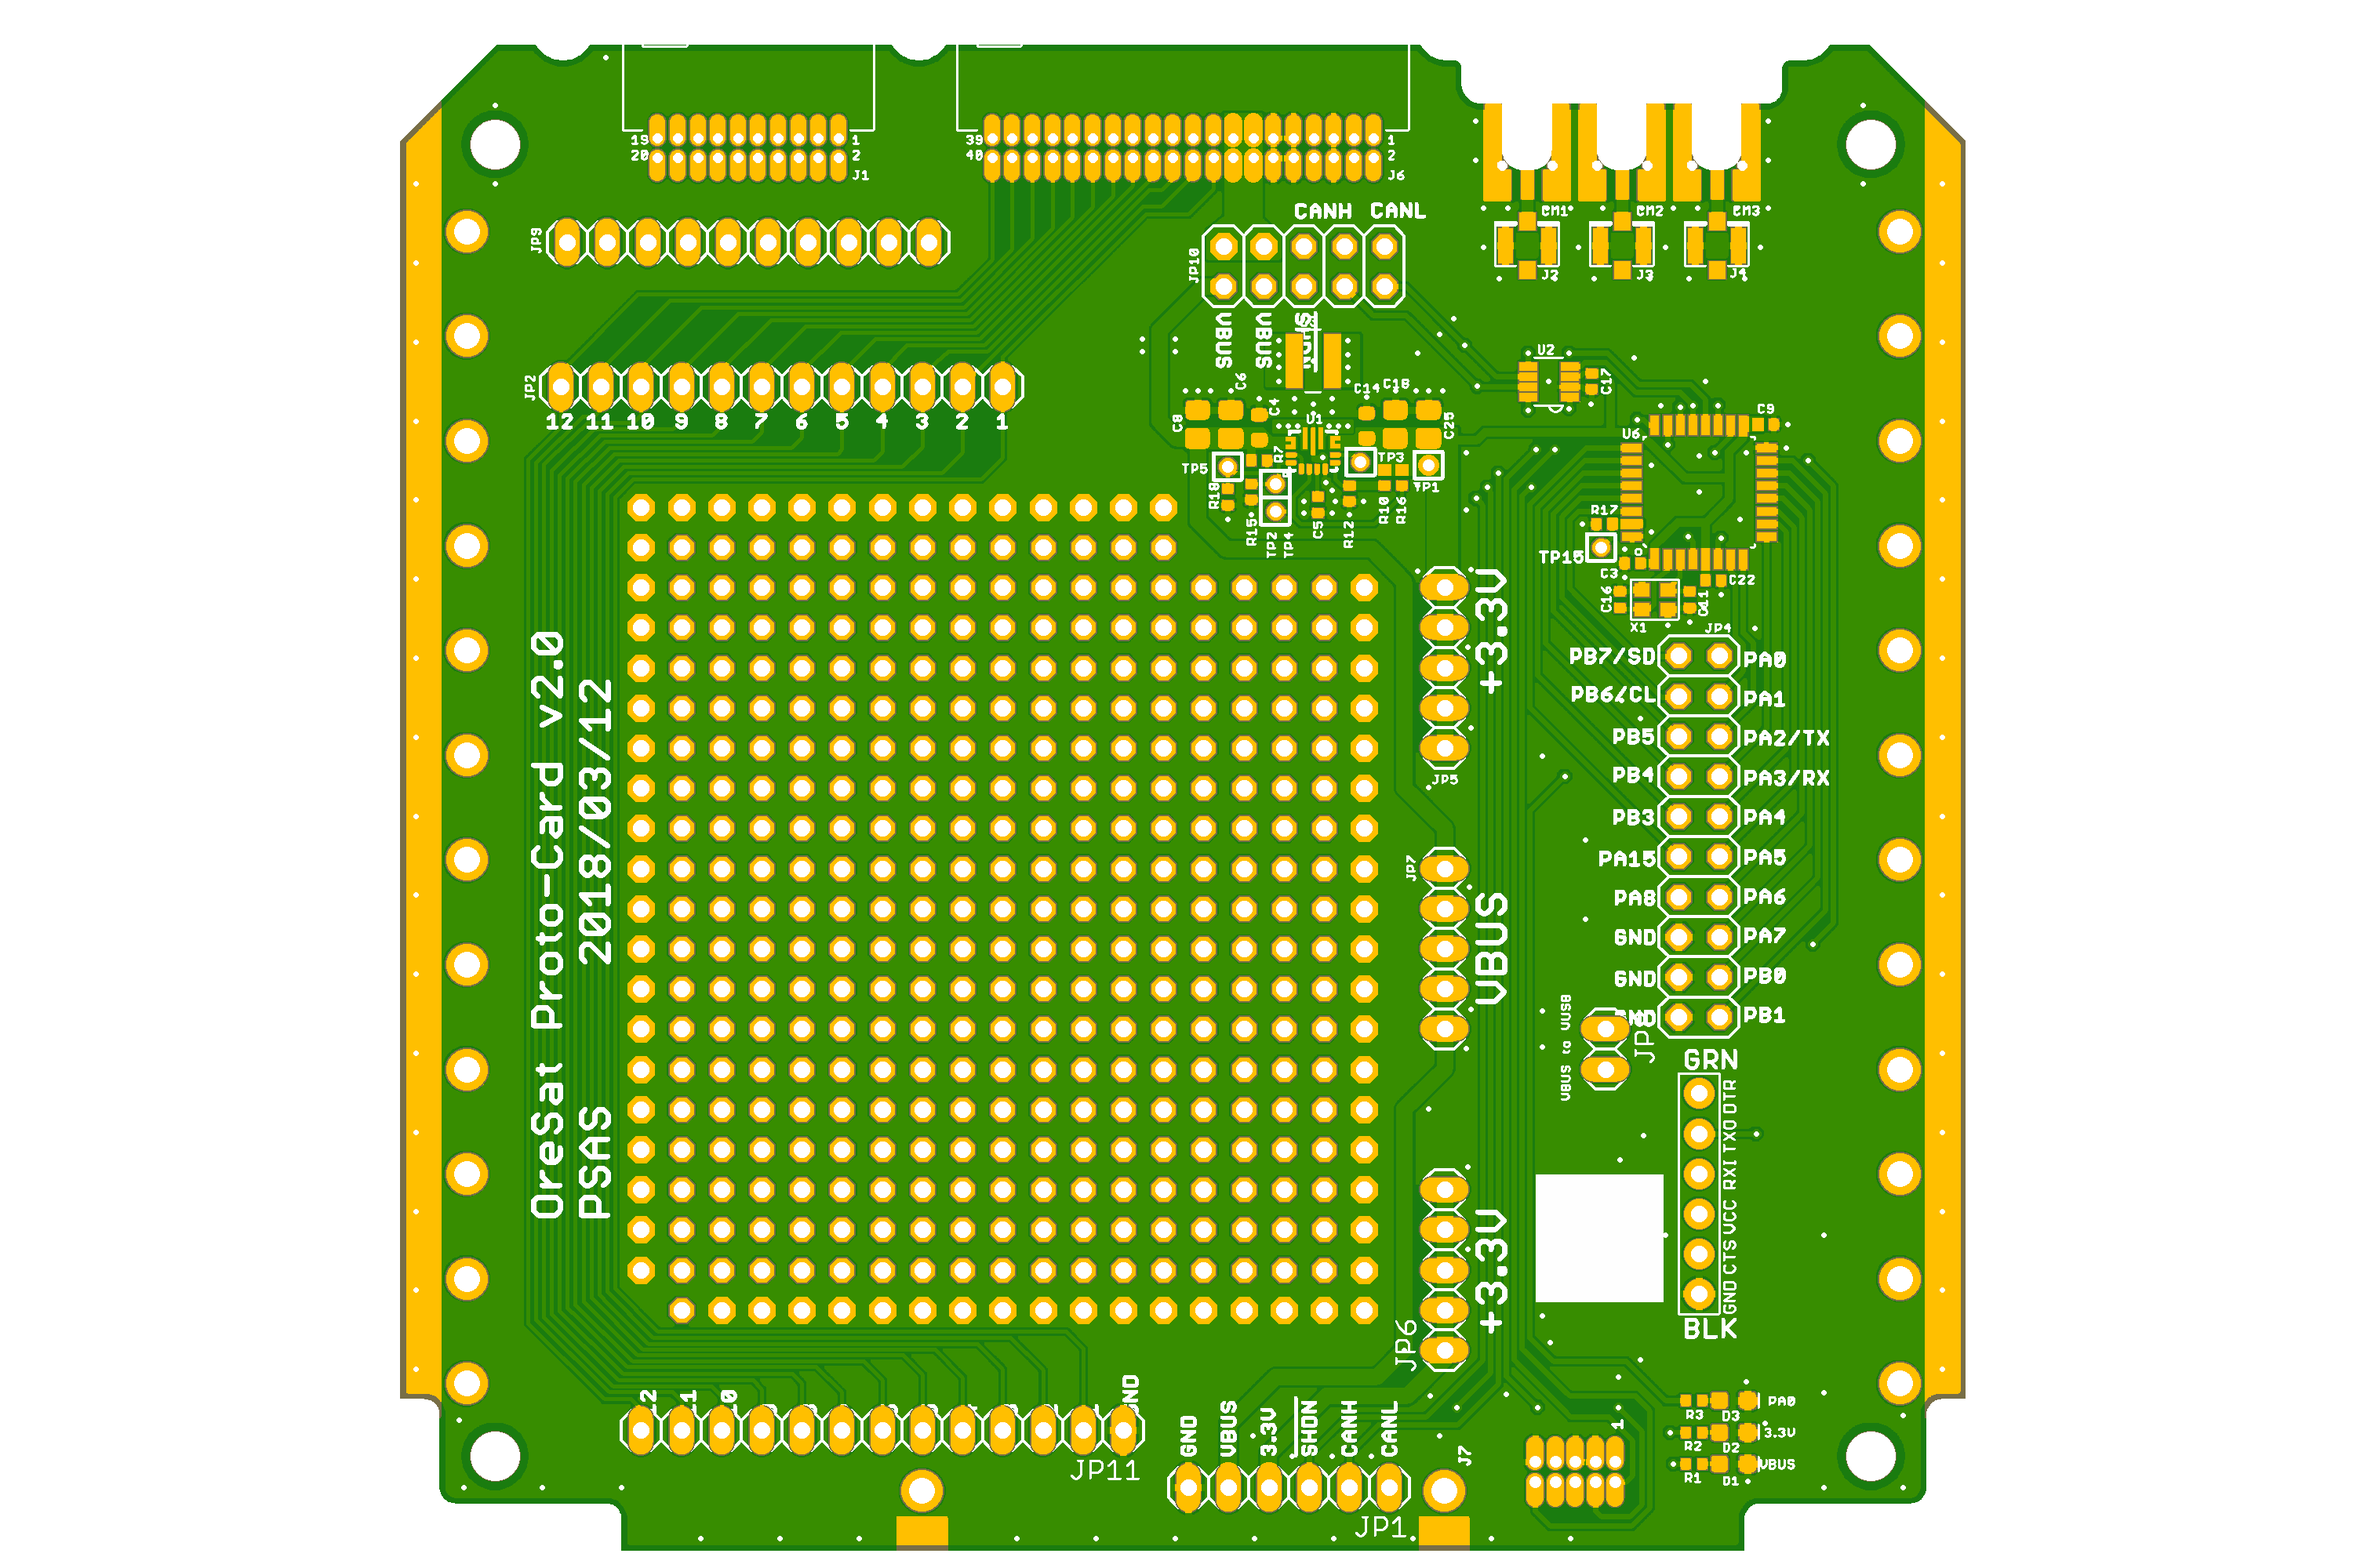
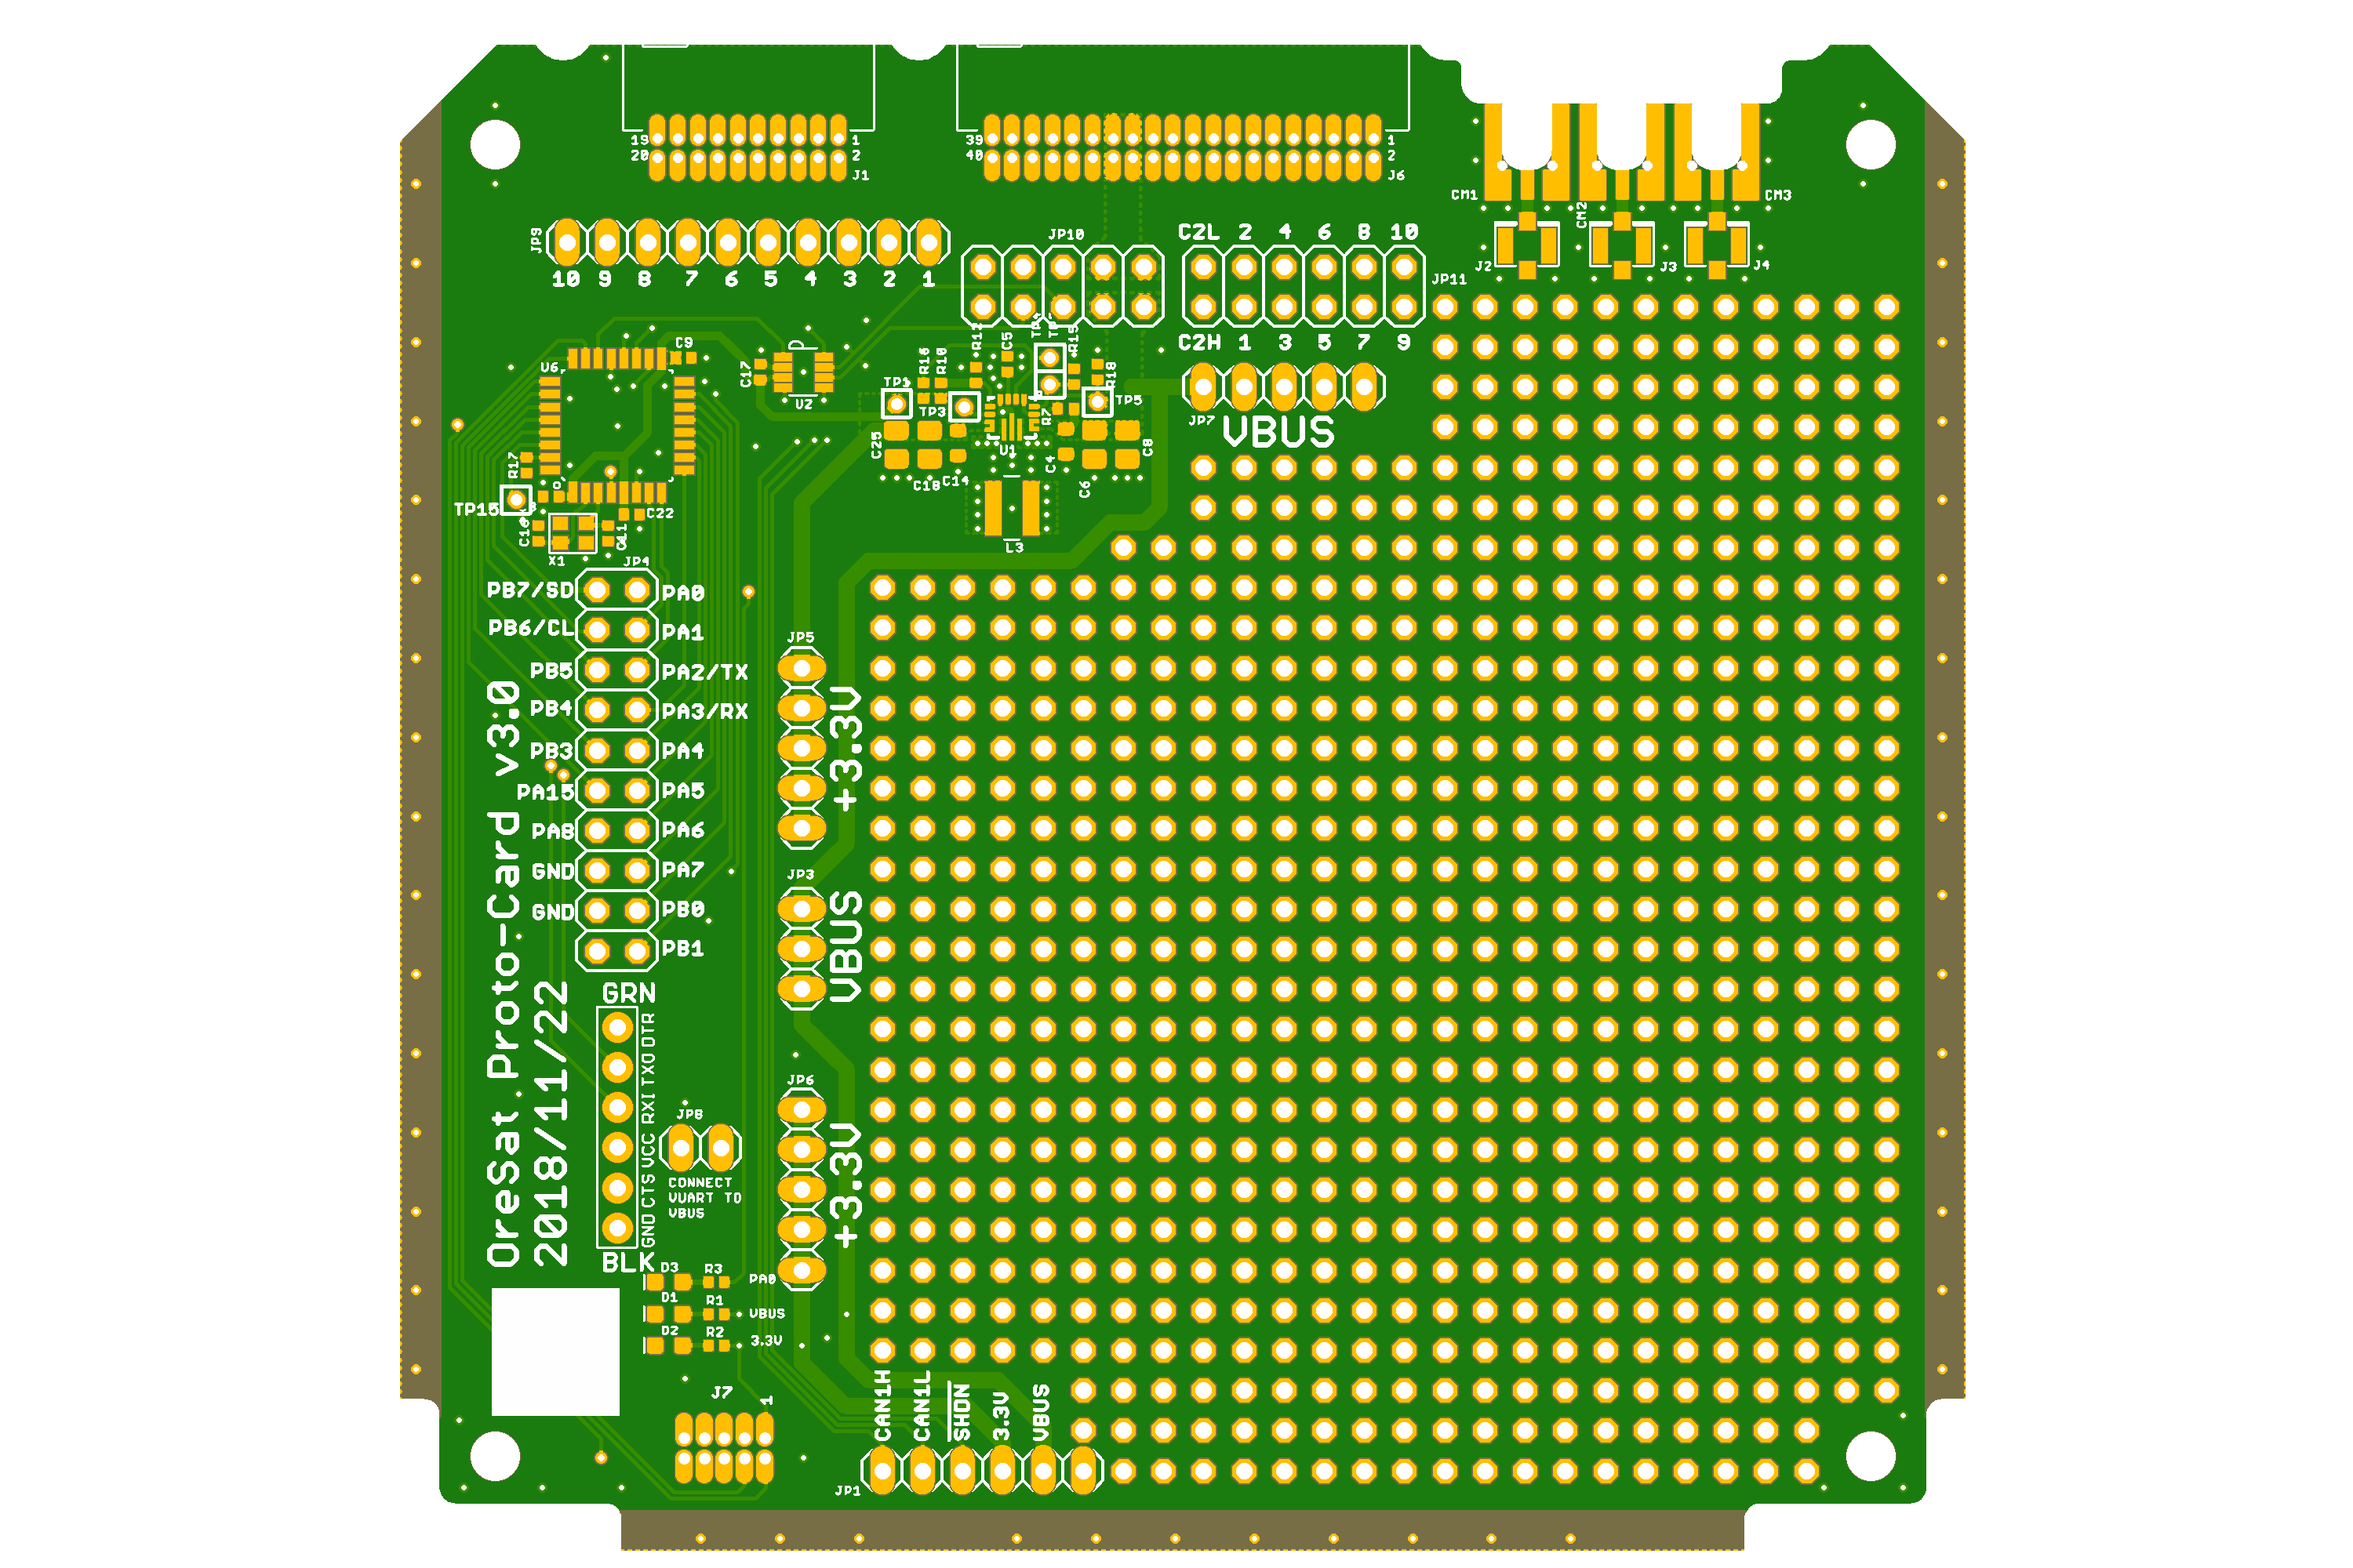
Update documentation to the latest.

diff --git a/README.md b/README.md
@@ -7,7 +7,7 @@ easy way to hack in functionality. NOT MEANT FOR FLIGHT.
 
 - Populates the two 1.27 mm connectors from the backplane.
 - Populates all three SMPM RF connectors from the backplane.
-- Standard TPS63070-bsaed buck/boost SPS (Vin = 2.5 to 7 V)
+- Standard TPS63070-bsaed buck/boost SPS (Vin = 2.5 to 7 V, Vout = 3.3V)
 - Has our standard/favorite STM32F042K6 microcontroller.
    - With SWD, UART (FTDI), and CAN (to the backplane).
 - Has lots of breakouts, but DO NOT POPULATE THE 0.1 IN CONNECTORS, THEY'RE TOO TALL!!!
@@ -45,4 +45,12 @@ Copyright Portland State Aerospace Society 2018.
 This documentation describes Open Hardware and is licensed under the CERN OHL v. 1.2.
 
 You may redistribute and modify this documentation under the terms of the CERN OHL v.1.2. [http://ohwr.org/cernohl](http://ohwr.org/cernohl). This documentation is distributed WITHOUT ANY EXPRESS OR IMPLIED WARRANTY, INCLUDING OF MERCHANTABILITY, SATISFACTORY QUALITY AND FITNESS FOR A PARTICULAR PURPOSE. Please see the CERN OHL v.1.2 for applicable conditions.
+
+## Version Information
+
+Version | Date       | Notes
+-----------------------------------------------
+3.0     | 2018/11/22 | Big changes in structure, mostly springs. Changed RF connectors to SMPM. Optimized layout for more proto area. 
+2.0     | 2018/03/?? | New 1.27 mm connectors, again.
+1.0     | ??         | New connectors.
 
